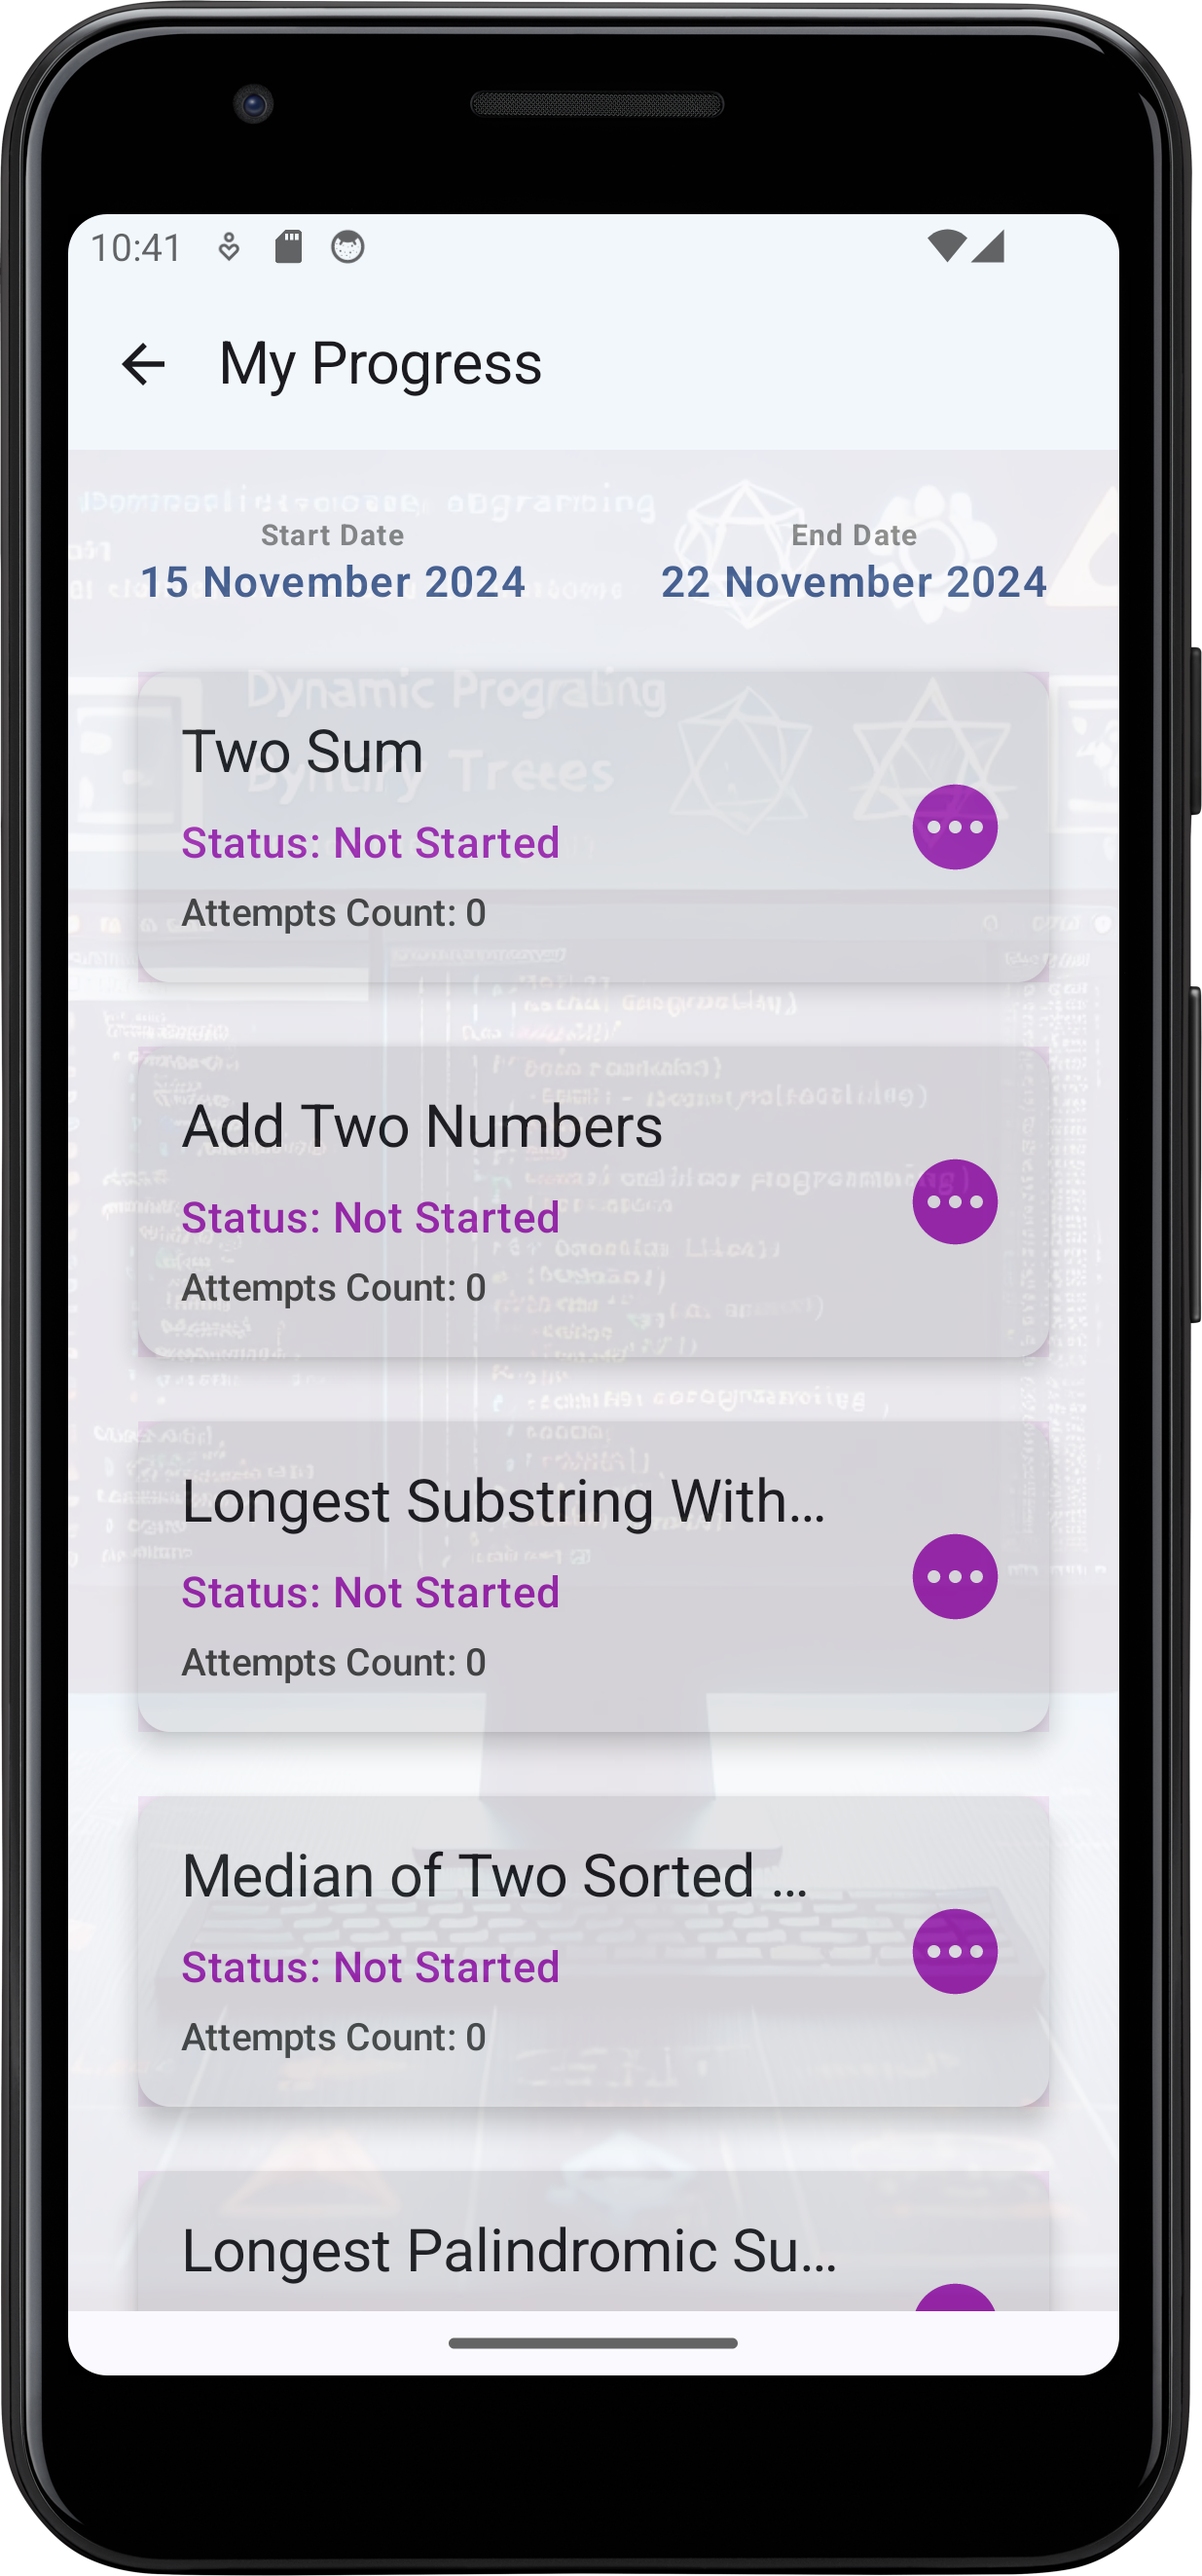
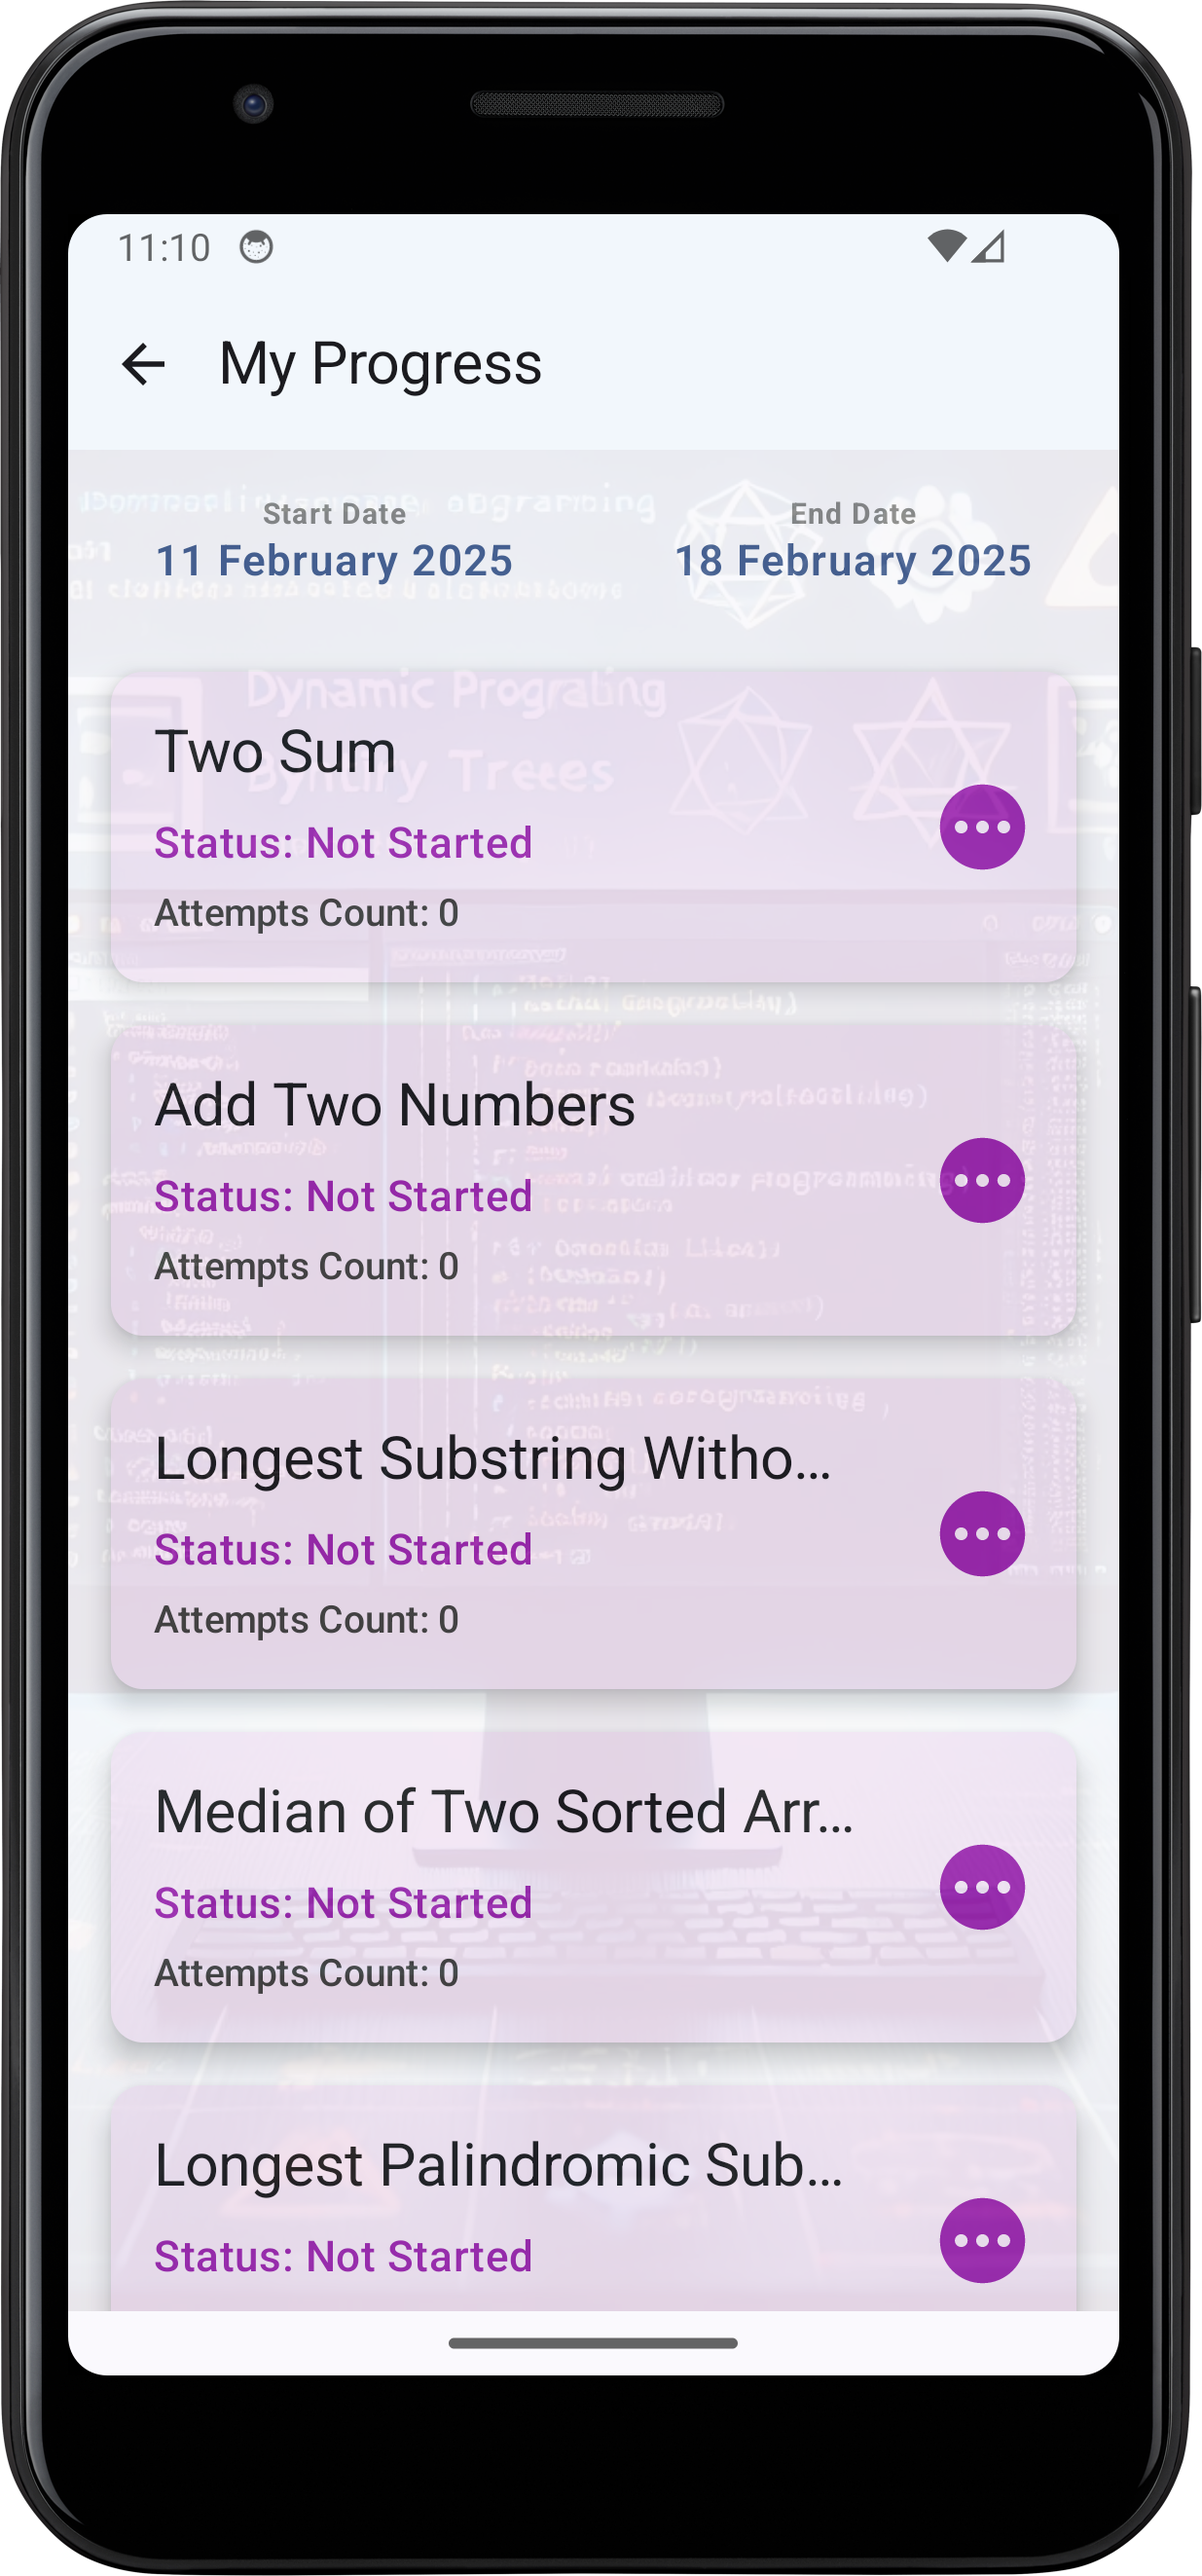
Refactor GoalProgressScreen layout and styling
-   Refactored `GoalProgressScreen`'s `LazyColumn` for better spacing and added padding.
-   Updated `ProblemCard` to use `CardDefaults.cardColors` and added vertical spacing within the card's content.
-   Updated `DateRow` layout.
-   Adjusted paddings and arrangements.
- Removed `Spacer` composables.
- Added screenshot ss

diff --git a/app/src/main/kotlin/com/byteutility/dev/leetcode/plus/ui/screens/targetstatus/GoalProgressScreen.kt b/app/src/main/kotlin/com/byteutility/dev/leetcode/plus/ui/screens/targetstatus/GoalProgressScreen.kt
@@ -7,14 +7,12 @@ import androidx.compose.foundation.clickable
 import androidx.compose.foundation.layout.Arrangement
 import androidx.compose.foundation.layout.Box
 import androidx.compose.foundation.layout.Column
+import androidx.compose.foundation.layout.PaddingValues
 import androidx.compose.foundation.layout.Row
-import androidx.compose.foundation.layout.Spacer
 import androidx.compose.foundation.layout.fillMaxSize
 import androidx.compose.foundation.layout.fillMaxWidth
-import androidx.compose.foundation.layout.height
 import androidx.compose.foundation.layout.padding
 import androidx.compose.foundation.layout.size
-import androidx.compose.foundation.layout.width
 import androidx.compose.foundation.lazy.LazyColumn
 import androidx.compose.foundation.lazy.items
 import androidx.compose.foundation.shape.CircleShape
@@ -98,14 +96,15 @@ fun ProgressScreenContent(
         ) {
             LazyColumn(
                 modifier = Modifier
-                    .padding(top = 8.dp, start = 10.dp, end = 10.dp)
+                    .padding(start = 16.dp, end = 16.dp),
+                verticalArrangement = Arrangement.spacedBy(16.dp),
+                contentPadding = PaddingValues(bottom = 16.dp)
             ) {
                 item {
-                    DateRow(uiState.period.startDate, uiState.period.endDate)
+                    DateRow(startDate = uiState.period.startDate, endDate = uiState.period.endDate)
                 }
                 items(uiState.problemsWithStatus) {
                     ProblemCard(it, onNavigateToWebView)
-                    Spacer(modifier = Modifier.height(8.dp))
                 }
             }
             Image(
@@ -138,19 +137,20 @@ fun ProblemCard(
 
     Card(
         modifier = Modifier
-            .fillMaxWidth()
-            .clickable {
-                val encodedUrl =
-                    Uri.encode("https://leetcode.com/problems/${problemStatus.titleSlug}/description")
-                onNavigateToWebView.invoke(encodedUrl)
-            }
-            .padding(vertical = 8.dp, horizontal = 16.dp)
-            .background(backgroundColor),
+            .fillMaxWidth(),
+        colors = CardDefaults.cardColors(
+            containerColor = backgroundColor
+        ),
         shape = RoundedCornerShape(12.dp),
         elevation = CardDefaults.cardElevation(defaultElevation = 6.dp)
     ) {
         Row(
             modifier = Modifier
+                .clickable {
+                    val encodedUrl =
+                        Uri.encode("https://leetcode.com/problems/${problemStatus.titleSlug}/description")
+                    onNavigateToWebView.invoke(encodedUrl)
+                }
                 .fillMaxWidth()
                 .padding(16.dp),
             verticalAlignment = Alignment.CenterVertically,
@@ -158,7 +158,8 @@ fun ProblemCard(
         ) {
             Column(
                 modifier = Modifier
-                    .fillMaxWidth(0.8f)
+                    .fillMaxWidth(0.8f),
+                verticalArrangement = Arrangement.spacedBy(8.dp)
             ) {
                 Text(
                     text = problemStatus.title,
@@ -167,18 +168,21 @@ fun ProblemCard(
                     style = MaterialTheme.typography.titleLarge,
                     color = MaterialTheme.colorScheme.onSurface
                 )
-                Spacer(modifier = Modifier.height(8.dp))
-                Text(
-                    text = "Status: ${problemStatus.status}",
-                    style = MaterialTheme.typography.titleMedium,
-                    color = statusColor
-                )
-                Spacer(modifier = Modifier.height(4.dp))
-                Text(
-                    text = "Attempts Count: ${problemStatus.attemptsCount}",
-                    style = MaterialTheme.typography.titleSmall,
-                    color = Color.DarkGray
-                )
+                Column(
+                    verticalArrangement = Arrangement.spacedBy(4.dp)
+                ) {
+                    Text(
+                        text = "Status: ${problemStatus.status}",
+                        style = MaterialTheme.typography.titleMedium,
+                        color = statusColor
+                    )
+                    Text(
+                        text = "Attempts Count: ${problemStatus.attemptsCount}",
+                        style = MaterialTheme.typography.titleSmall,
+                        color = Color.DarkGray
+                    )
+                }
+
             }
 
             if (problemStatus.status == "In Progress" || problemStatus.status == "Not Started") {
@@ -214,13 +218,12 @@ fun ProblemCard(
 fun DateRow(startDate: String, endDate: String) {
     Row(
         modifier = Modifier
-            .fillMaxWidth()
-            .padding(16.dp),
+            .padding(16.dp)
+            .fillMaxWidth(),
         horizontalArrangement = Arrangement.SpaceBetween,
         verticalAlignment = Alignment.CenterVertically
     ) {
         DateItem(label = "Start Date", date = startDate)
-        Spacer(modifier = Modifier.width(16.dp))
         DateItem(label = "End Date", date = endDate)
     }
 }
